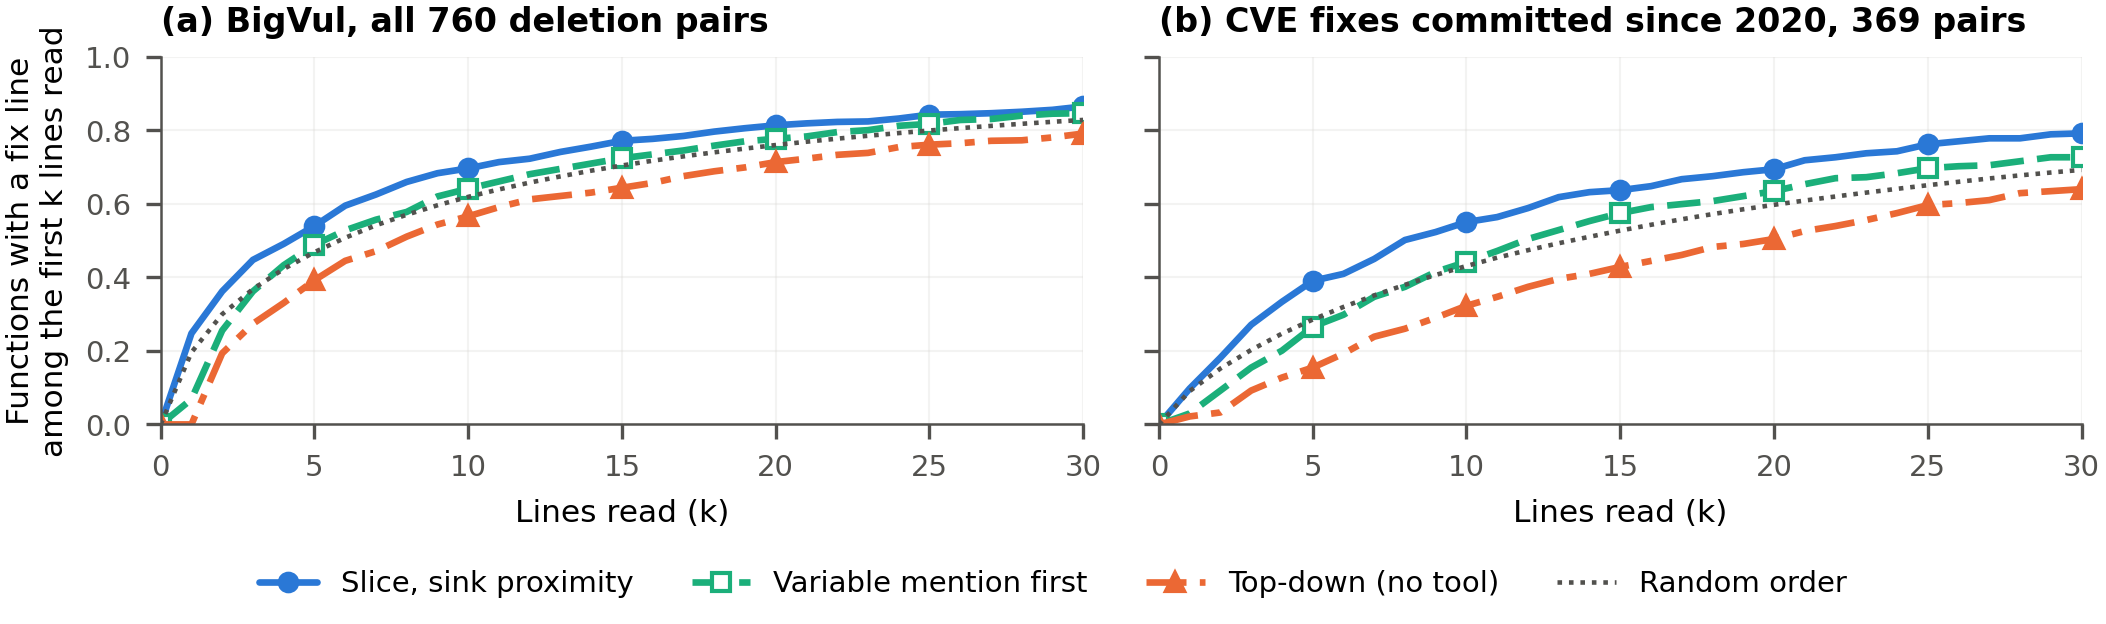
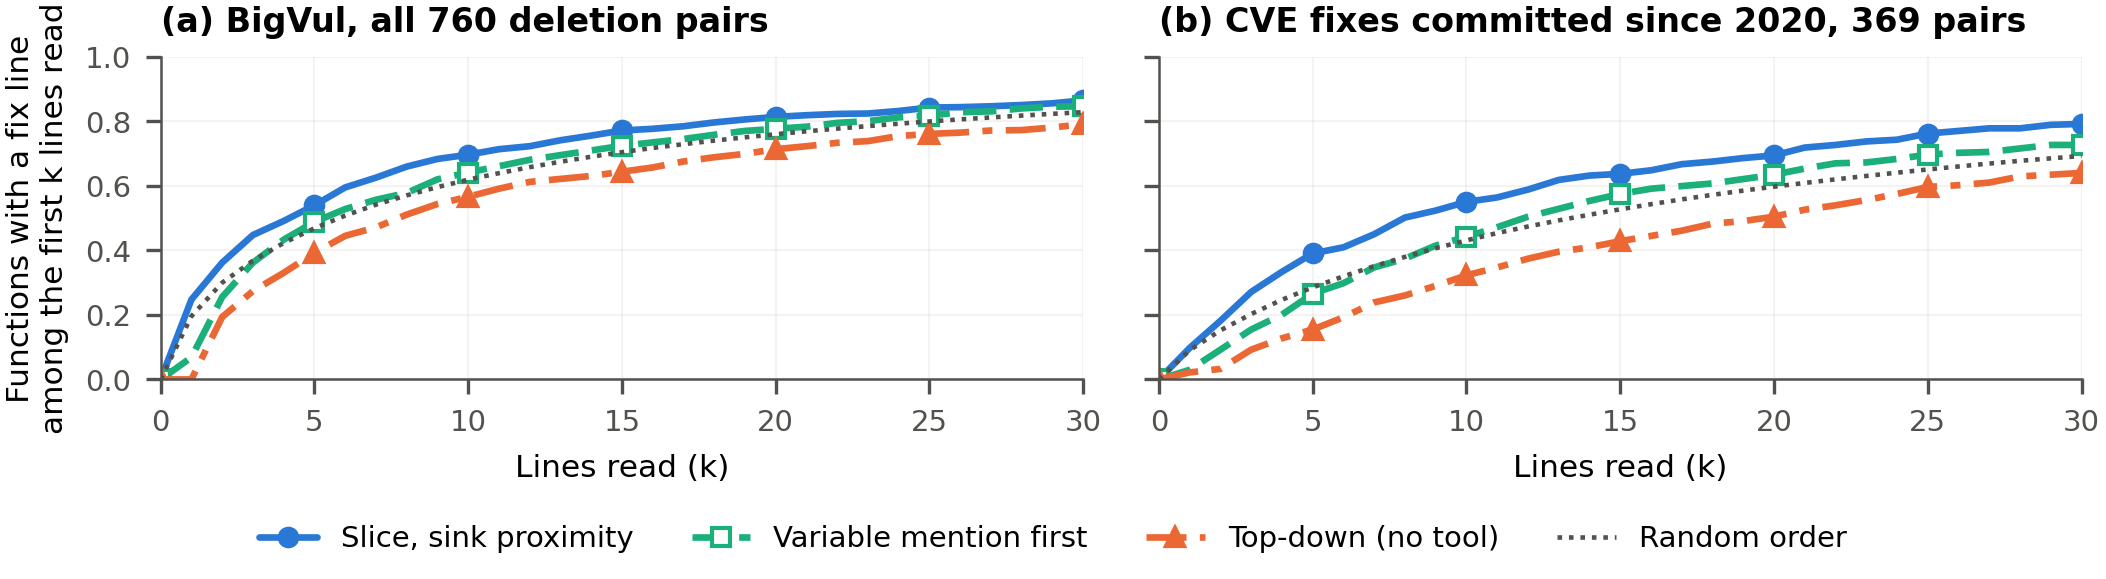
Figures: shorter RQ1 plots with a compact y-axis label
The region map and inspection-effort figures are slightly shorter to fit
the page, and the region map's y-axis reads 'Fix lines covered (share)'.
Plotted values are unchanged.

diff --git a/make_rq1_figures.py b/make_rq1_figures.py
@@ -112,7 +112,7 @@ def region_map():
         ("Forward from inputs", d["forward"]["mean_rsr"], d["forward"]["mean_coverage"], ORANGE, "^", 0.014, 0.0, "left", False),
         ("Chop (forward \u2229 backward)", d["chop"]["mean_rsr"], d["chop"]["mean_coverage"], ORANGE, "^", 0.012, -0.05, "left", False),
     ]
-    fig, axes = plt.subplots(1, 2, figsize=(7.1, 2.3), sharey=True)
+    fig, axes = plt.subplots(1, 2, figsize=(7.1, 2.15), sharey=True)
     for ax, pts, title in ((axes[0], a_pts, f"(a) Which sinks, which region? All {full['n_deletion_pairs']} pairs"),
                            (axes[1], b_pts, f"(b) Which direction? {d['n_with_forward']} pairs with a forward slice")):
         iso_lift(ax)
@@ -123,7 +123,7 @@ def region_map():
         ax.set_ylim(0.3, 1.0)
         ax.set_xlabel("Region size (share of function kept, RSR)")
         ax.set_title(title, loc="left")
-    axes[0].set_ylabel("Deleted fix lines covered (share)")
+    axes[0].set_ylabel("Fix lines covered (share)")
     axes[1].tick_params(labelleft=True)
     handles = [plt.Line2D([], [], marker="o", color=BLUE, ls="", markersize=6.5, markeredgecolor="white"),
                plt.Line2D([], [], marker="^", color=ORANGE, ls="", markersize=6.5, markeredgecolor="white"),
@@ -193,7 +193,7 @@ def effort():
         rows = first_positions(pairs)
         populations.append((f"(b) CVE fixes committed since 2020, {len(rows)} pairs", rows))
     ks = list(range(0, 31))
-    fig, axes = plt.subplots(1, len(populations), figsize=(7.1, 2.15), sharey=True, squeeze=False)
+    fig, axes = plt.subplots(1, len(populations), figsize=(7.1, 2.0), sharey=True, squeeze=False)
     data = {}
     for ax, (title, rows) in zip(axes[0], populations):
         # Line style and marker differ per order, so the curves stay distinct in greyscale print.
